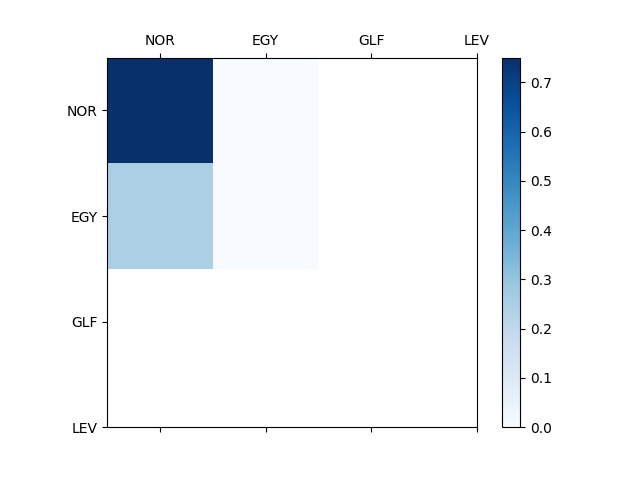
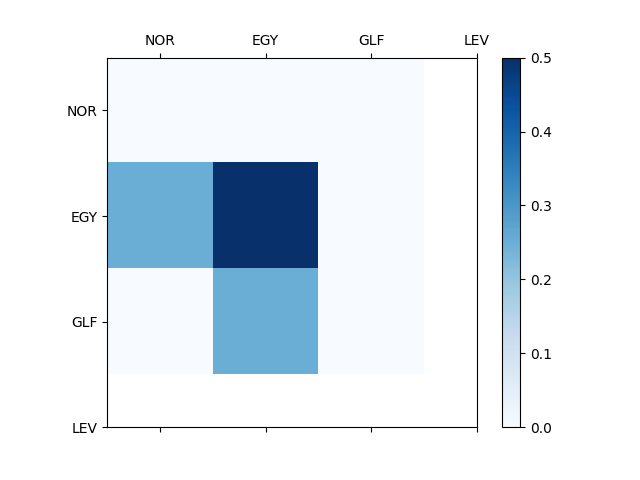
changed positoin of layer definitions & added print to output

diff --git a/run_basic2.py b/run_basic2.py
@@ -427,6 +427,8 @@ print("SUCCESS: Data ready for training and evaluation.")
 # 3) Load a pre-trained checkpoint
 # 4) Define the training configuration
 print("\n------> PREPARING FOR TRAINING & EVALUATION... ----------------------- \n")
+dt_string = now.strftime("%d/%m/%Y %H:%M:%S")
+print("TIME:", dt_string)
 
 print("--> Defining pooling layer...")
 print("Number of labels:", num_labels)
@@ -621,17 +623,14 @@ class myTrainer(Trainer):
             acc_sum_val = 0
             tr_itt = iter(trainDataLoader)
             tst_itt = iter(testDataLoader)
-            print_gpu_info()
             print("start train")
             # train
             train_loss, train_acc = self._train(
                 train_loader, tr_itt, loss_sum_tr, acc_sum_tr)
-            print_gpu_info()
             print("start validation")
             # validate
             val_loss, val_acc = self._validate(
                 val_loader, tst_itt, loss_sum_val, acc_sum_val)
-            print_gpu_info()
             print(
                 f"Epoch {epoch} Train Acc {train_acc}% Val Acc {val_acc}% Train Loss {train_loss} Val Loss {val_loss}")
             outcsv.write(
@@ -646,6 +645,8 @@ class myTrainer(Trainer):
             # forward pass
             try:
                 data = next(tr_itt)
+                print_gpu_info()
+                print ("get data")
                 inputs = {}
                 inputs['input_values'] = data['input_values'].float().to(
                     device).contiguous()
@@ -653,7 +654,12 @@ class myTrainer(Trainer):
                     device).contiguous()
                 labels = data['labels'].long().to(device).contiguous()
                 # loss
+                print_gpu_info()
+                print("get loss & acc")
                 loss, acc = self._compute_loss(model, inputs, labels)
+                print_gpu_info()
+
+                print("backward")
                 # remove gradient from previous passes
                 self.optimizer.zero_grad()
 
@@ -661,6 +667,7 @@ class myTrainer(Trainer):
                     loss = loss / self.args.gradient_accumulation_steps
 
                 loss.backward()
+                print_gpu_info()
                 # parameters update
                 self.optimizer.step()
 
@@ -723,9 +730,10 @@ class myTrainer(Trainer):
                     predictions = model(**inputs).logits
                     preds = predictions[0]
                     for p in preds:
-                        y_pred.append(np.argmax(p.cpu()))
+                        print(p)
+                        y_pred.append(np.argmax(p.item()))
                     for l in labels.cpu():
-                        y_true.append(l)
+                        y_true.append(l.item())
 
                 except StopIteration:
                     break
@@ -787,6 +795,8 @@ trainer = myTrainer(
 
 if training:
     print("\n------> STARTING TRAINING... ----------------------------------------- \n")
+    dt_string = now.strftime("%d/%m/%Y %H:%M:%S")
+    print("TIME:", dt_string)
     # Use avaliable GPUs
     if torch.cuda.is_available():
         device = torch.device("cuda")
@@ -805,6 +815,8 @@ if training:
 # ------------------------------------------
 # Evaluate fine-tuned model on test set.
 print("\n------> EVALUATING MODEL... ------------------------------------------ \n")
+dt_string = now.strftime("%d/%m/%Y %H:%M:%S")
+print("TIME:", dt_string)
 
 tst_itt = iter(testDataLoader)
 trainer. _evaluate(testDataLoader, tst_itt)

diff --git a/run_basic.py b/run_basic.py
@@ -159,9 +159,9 @@ if use_checkpoint:
     print("checkpoint:", checkpoint)
 
 # Use pretrained model
-model_name = "superb/wav2vec2-base-superb-sid"
+# model_name = "superb/wav2vec2-base-superb-sid"
 # model_name = "elgeish/wav2vec2-large-xlsr-53-arabic"
-# model_name = "facebook/wav2vec2-base"
+model_name = "facebook/wav2vec2-base"
 # try log0/wav2vec2-base-lang-id
 
 # Evaluate existing model instead of newly trained model (True/False)
@@ -469,16 +469,6 @@ print("--> Loading pre-trained checkpoint...")
 model = Wav2Vec2ForSequenceClassification.from_pretrained(model_name)
 model.classifier = nn.Linear(in_features=256, out_features=num_labels, bias=True)
 
-device = torch.device('cuda:0' if torch.cuda.is_available() else 'cpu')
-multi_gpu = False
-if torch.cuda.device_count() > 1:
-    print('GPUs Used : ', torch.cuda.device_count(), 'GPUs!')
-    model = nn.DataParallel(model)
-    model = nn.DataParallel(model_name)
-    multi_gpu = True
-print_gpu_info()
-model.to(device)
-
 print("-------- Setting up Model --------")
 for param in model.wav2vec2.feature_extractor.parameters():
     param.requires_grad = False
@@ -488,6 +478,15 @@ for param in model.wav2vec2.encoder.parameters():
 
 for param in model.wav2vec2.feature_projection.parameters():
     param.requires_grad = False
+
+device = torch.device('cuda:0' if torch.cuda.is_available() else 'cpu')
+multi_gpu = False
+if torch.cuda.device_count() > 1:
+    print('GPUs Used : ', torch.cuda.device_count(), 'GPUs!')
+    model = nn.DataParallel(model)
+    multi_gpu = True
+print_gpu_info()
+model.to(device)
 
 """"
 trainable_transformers = 12

diff --git a/test.py b/test.py
@@ -36,7 +36,7 @@ def plot_data(x_label, y_label, matrix):
     plt.savefig("output/"+experiment_id+".png")
 
 
-preds = tf.constant([[-0.7204,  0.0392,  0.5136,  0.2023],
+preds = tf.constant([[-0.7204,  0.5,  0.5,  0.2023],
                         [-0.9115, -0.0212,  0.7294,  0.2992],
         [-0.8858, -0.0124,  0.7047,  0.2535],
     [-0.8116, -0.0200,  0.6766,  0.2349]])
